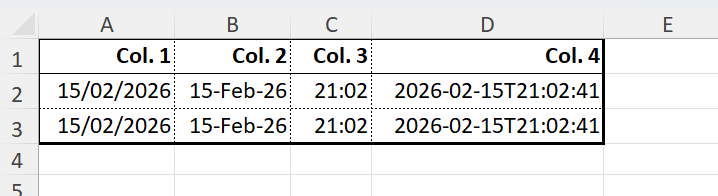
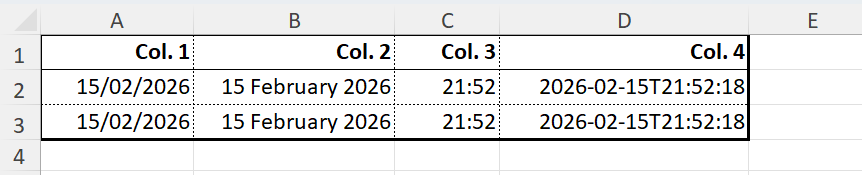
🚧 Some more tests.

Changed region(s): [[0.0, 0.0571, 1.0, 1.0], [0.9192, 0.0571, 0.9499, 0.1714]]

diff --git a/docs/src/man/excel/excel_examples.md b/docs/src/man/excel/excel_examples.md
@@ -41,7 +41,7 @@ significantly impacted by Excel formatting - although this is not impossible).
 If automatic determination of column widths is unsatisfactory, consider setting min and/or 
 max width limits or fixing column widths entirely.
 
-To illustrate the extent to which formatting affects width, consider:
+To illustrate the extent to which formatting affects width even of the same data, consider:
 
 ```julia
 now = Dates.now()
@@ -55,14 +55,15 @@ result = pretty_table(
     matrix;
     excel_formatters = [
         ExcelFormatter((v, i, j) -> (j==1), ["format" => "ShortDate"])
-        ExcelFormatter((v, i, j) -> (j==2), ["format" => "LongDate"])
+        ExcelFormatter((v, i, j) -> (j==2), ["format" => "d mmmm yyyy"])
         ExcelFormatter((v, i, j) -> (j==3), ["format" => "hh:mm"])
         ExcelFormatter((v, i, j) -> (j==4), ["format" => "yyyy-mm-dd\"T\"hh:mm:ss"])
     ]
+    table_format = ExcelTableFormat(data_column_width = [12.0, 16.0, 8.0, 20.0])
 )
 ```
 ![image|320x500](../excel/excel_images/Excel_datetime.png)
-(The column widths were adjusted manually in this example.)
+
 
 ## Predefined Formatters
 
@@ -99,7 +100,7 @@ useful. For example, the addition of
 excel_formatters = [ExcelFormatter((v, i, j) -> true, ["format" => "@_0"])],
 ```
 in the above `pretty_table` specification would provide a right cell margin the width of 
-one '0' character to the data in each cell, similar to the one included in the first example.
+one '`0`' character to the data in each cell, similar to the one included in the first example.
 
 ## Excel Highlighters
 